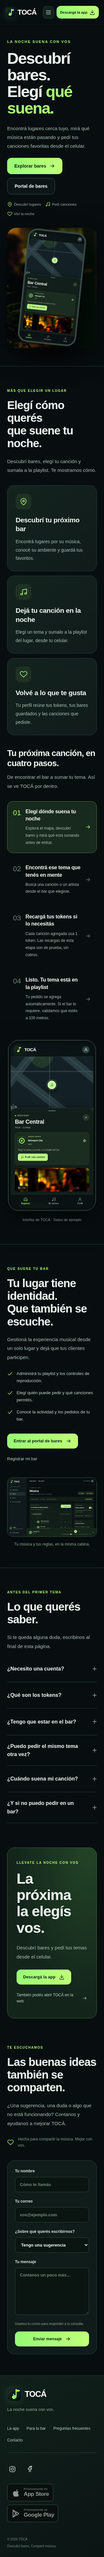
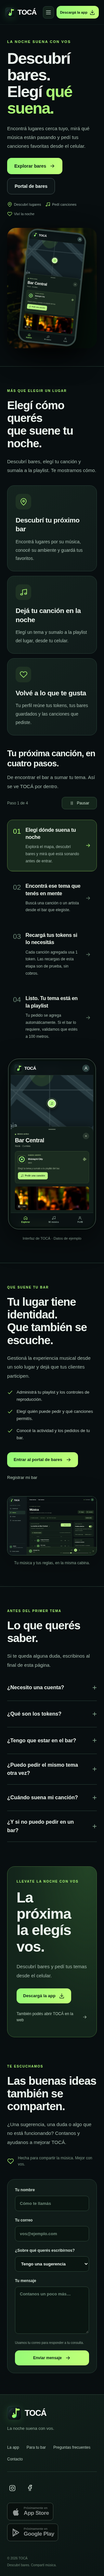
Auto advance homepage walkthrough every five seconds with pause controls

diff --git a/web/landing.js b/web/landing.js
@@ -2,6 +2,7 @@
 (() => {
  'use strict';
  const sections=['inicio','la-app','para-bares','preguntas','descargar','contacto'];
+ const stagePlayers=new WeakMap();let stopWalkthrough=()=>{};
  const safeUrl=value=>{try{const u=new URL(value);return u.protocol==='https:'&&!u.username&&!u.password?u.href:''}catch{return ''}};
  const settings=()=>window.TOCA_CONFIG?.marketing||{};
  const storeLinks=()=>({ios:storeUrl(settings().appStoreUrl,['apps.apple.com','itunes.apple.com']),android:storeUrl(settings().playStoreUrl,['play.google.com'])});
@@ -20,7 +21,7 @@
   ['Recargá tus tokens si lo necesitás','Cada canción agregada usa 1 token. Las recargas de esta etapa son de prueba, sin cobros.','tokens.png'],
   ['Listo. Tu tema está en la playlist','Tu pedido se agrega automáticamente. Si el bar lo requiere, validamos que estés a 100 metros.','success.png']
  ];
- function walkthrough(){return `<div class="landing-walkthrough"><div class="landing-section-heading"><h3>Tu próxima canción, en cuatro pasos.</h3><p>De encontrar el bar a sumar tu tema. Así se ve TOCÁ por dentro.</p></div><div class="landing-how-grid"><div class="landing-stages" role="tablist" aria-label="Cómo funciona TOCÁ" aria-orientation="vertical">${stages.map(([title,copy],i)=>`<button type="button" role="tab" id="landing-stage-${i}" aria-controls="landing-screen-${i}" aria-selected="${i===0}" tabindex="${i===0?'0':'-1'}" data-landing-stage="${i}"><span class="landing-stage-number">0${i+1}</span><span><strong>${title}</strong><small>${copy}</small></span>${iconSvg('arrow',18)}</button>`).join('')}</div><div class="landing-screen-area">${stages.map(([title,,file],i)=>`<figure id="landing-screen-${i}" role="tabpanel" aria-labelledby="landing-stage-${i}" ${i?'hidden':''}><div class="landing-screen-phone"><img src="/assets/landing/${file}" width="390" height="780" loading="lazy" alt="Pantalla de TOCÁ: ${esc(title)}"></div><figcaption>Interfaz de TOCÁ · Datos de ejemplo</figcaption></figure>`).join('')}</div></div></div>`;}
+ function walkthrough(){return `<div class="landing-walkthrough"><div class="landing-section-heading landing-walkthrough-heading"><div><h3>Tu próxima canción, en cuatro pasos.</h3><p>De encontrar el bar a sumar tu tema. Así se ve TOCÁ por dentro.</p></div><div class="landing-walkthrough-controls"><span data-stage-count>Paso 1 de 4</span><button type="button" data-stage-playback title="Avance automático: 5 segundos por paso" aria-label="Pausar el avance automático de los pasos">${svg('<path d="M9 5v14M15 5v14"/>',16)}Pausar</button></div></div><div class="landing-how-grid"><div class="landing-stages" role="tablist" aria-label="Cómo funciona TOCÁ" aria-orientation="vertical">${stages.map(([title,copy],i)=>`<button type="button" role="tab" id="landing-stage-${i}" aria-controls="landing-screen-${i}" aria-selected="${i===0}" tabindex="${i===0?'0':'-1'}" data-landing-stage="${i}"><span class="landing-stage-number">0${i+1}</span><span><strong>${title}</strong><small>${copy}</small></span>${iconSvg('arrow',18)}<span class="landing-stage-progress" aria-hidden="true"><i></i></span></button>`).join('')}</div><div class="landing-screen-area">${stages.map(([title,,file],i)=>`<figure id="landing-screen-${i}" role="tabpanel" aria-labelledby="landing-stage-${i}" ${i?'hidden':''}><div class="landing-screen-phone"><img src="/assets/landing/${file}" width="390" height="780" loading="lazy" alt="Pantalla de TOCÁ: ${esc(title)}"></div><figcaption>Interfaz de TOCÁ · Datos de ejemplo</figcaption></figure>`).join('')}</div></div></div>`;}
  const previousLanding=tocaLanding;
  tocaLanding=function(){
   previousLanding();const root=document.querySelector('.toca-landing');if(!root)return;
@@ -47,10 +48,45 @@
    <footer class="landing-footer"><div class="landing-footer-top"><div>${brand()}<p>La noche suena con vos.</p></div><nav aria-label="Enlaces del sitio">${anchor('la-app','La app')}${anchor('para-bares','Para tu bar')}${anchor('preguntas','Preguntas frecuentes')}${anchor('contacto','Contacto')}</nav></div><div class="landing-footer-bottom"><div class="landing-socials" aria-label="Redes sociales">${socials()}</div>${badges()}</div><div class="landing-footer-legal"><span>© ${new Date().getFullYear()} TOCÁ</span><span>Descubrí bares. Compartí música.</span></div></footer>`);
   const main=document.createElement('main');main.className='landing-main';root.querySelector('.toca-landing-header').after(main);root.querySelectorAll(':scope > section').forEach(section=>main.append(section));
   const footerLogo=root.querySelector('.landing-footer .toca-brand');footerLogo.href='#/?section=inicio';footerLogo.dataset.homeAnchor='inicio';
+  stopWalkthrough();stopWalkthrough=startWalkthrough(root.querySelector('.landing-walkthrough'));
   requestAnimationFrame(()=>scrollSection(route().params.get('section'),false));
  };
  function scrollSection(id,smooth=true){if(id==='como-funciona')id='la-app';if(!sections.includes(id))return;const target=document.getElementById(id);if(!target)return;target.scrollIntoView({behavior:smooth&&!matchMedia('(prefers-reduced-motion:reduce)').matches?'smooth':'instant',block:'start'});}
- function activateStage(root,index){root.querySelectorAll('[data-landing-stage]').forEach(button=>{const selected=Number(button.dataset.landingStage)===index;button.setAttribute('aria-selected',String(selected));button.tabIndex=selected?0:-1;});root.querySelectorAll('[role="tabpanel"]').forEach((panel,i)=>panel.hidden=i!==index);}
+ function activateStage(root,index,manual=true){root.querySelectorAll('[data-landing-stage]').forEach(button=>{const selected=Number(button.dataset.landingStage)===index;button.setAttribute('aria-selected',String(selected));button.tabIndex=selected?0:-1;});root.querySelectorAll('[role="tabpanel"]').forEach((panel,i)=>panel.hidden=i!==index);stagePlayers.get(root)?.select(index,manual);}
+ function startWalkthrough(root){
+  const grid=root.querySelector('.landing-how-grid'),toggle=root.querySelector('[data-stage-playback]'),counter=root.querySelector('[data-stage-count]');
+  const motion=matchMedia('(prefers-reduced-motion:reduce)'),duration=5000,seen=new Set();
+  let index=0,elapsed=0,last=null,frame=null,hovered=false,focused=false,paused=motion.matches,disposed=false;
+  const running=()=>!disposed&&root.isConnected&&seen.size>0&&!document.hidden&&!paused&&!hovered&&!focused;
+  function progress(){grid.style.setProperty('--stage-progress',String(Math.min(elapsed/duration,1)));}
+  function sync(){
+   if(frame!==null)cancelAnimationFrame(frame);frame=null;last=null;if(disposed)return;
+   toggle.innerHTML=svg(paused?'<path d="m9 5 11 7-11 7V5Z"/>':'<path d="M9 5v14M15 5v14"/>',16)+(paused?'Reanudar':'Pausar');
+   toggle.setAttribute('aria-label',paused?'Reanudar el avance automático de los pasos':'Pausar el avance automático de los pasos');
+   counter.textContent=`Paso ${index+1} de ${stages.length}`;progress();
+   if(running())frame=requestAnimationFrame(tick);
+  }
+  function tick(now){
+   frame=null;if(!running()){last=null;return;}
+   if(last!==null)elapsed+=now-last;last=now;
+   if(elapsed>=duration){activateStage(grid,(index+1)%stages.length,false);return;}
+   progress();frame=requestAnimationFrame(tick);
+  }
+  stagePlayers.set(grid,{select(next,manual){index=next;elapsed=0;if(manual)paused=true;sync();}});
+  const observer=new IntersectionObserver(entries=>{for(const entry of entries){if(entry.isIntersecting&&entry.intersectionRatio>=.25)seen.add(entry.target);else seen.delete(entry.target);}if(seen.size)root.querySelectorAll('img[loading="lazy"]').forEach(image=>image.loading='eager');sync();},{threshold:[0,.25],rootMargin:'-90px 0px -20px 0px'});
+  observer.observe(root.querySelector('.landing-stages'));observer.observe(root.querySelector('.landing-screen-area'));
+  const enter=event=>{if(event.pointerType==='mouse'){hovered=true;sync();}},leave=()=>{hovered=false;sync();};
+  const focus=()=>{focused=root.querySelector('.landing-stages').contains(document.activeElement);sync();};
+  const blur=event=>{focused=root.querySelector('.landing-stages').contains(event.relatedTarget);sync();};
+  const play=()=>{paused=!paused;sync();},visibility=()=>sync(),preference=event=>{if(event.matches)paused=true;sync();};
+  root.addEventListener('pointerenter',enter);root.addEventListener('pointerleave',leave);
+  root.addEventListener('focusin',focus);root.addEventListener('focusout',blur);toggle.addEventListener('click',play);
+  document.addEventListener('visibilitychange',visibility);motion.addEventListener('change',preference);sync();
+  return ()=>{disposed=true;if(frame!==null)cancelAnimationFrame(frame);observer.disconnect();stagePlayers.delete(grid);
+   root.removeEventListener('pointerenter',enter);root.removeEventListener('pointerleave',leave);root.removeEventListener('focusin',focus);root.removeEventListener('focusout',blur);toggle.removeEventListener('click',play);
+   document.removeEventListener('visibilitychange',visibility);motion.removeEventListener('change',preference);
+  };
+ }
  function closeMenu(){const header=document.querySelector('.toca-landing-header');header?.classList.remove('is-menu-open');const toggle=header?.querySelector('.landing-menu-toggle');if(toggle){toggle.setAttribute('aria-expanded','false');toggle.setAttribute('aria-label','Abrir menú');}}
  document.addEventListener('click',event=>{
   const menu=event.target.closest('.landing-menu-toggle');if(menu){const open=menu.getAttribute('aria-expanded')!=='true';menu.setAttribute('aria-expanded',String(open));menu.setAttribute('aria-label',open?'Cerrar menú':'Abrir menú');menu.closest('.toca-landing-header').classList.toggle('is-menu-open',open);}
@@ -74,6 +110,7 @@
  }
  const previousRender=render;
  render=async function(){
+  if(!['/','/home'].includes(route().path)){stopWalkthrough();stopWalkthrough=()=>{};}
   if(['/','/home'].includes(route().path)&&document.querySelector('.landing-expanded')){scrollSection(route().params.get('section')||'inicio',false);return;}
   if(route().path!=='/download')return previousRender();
   const links=storeLinks(),ua=navigator.userAgent,ios=/iPhone|iPad|iPod/i.test(ua)||/Mac/i.test(ua)&&navigator.maxTouchPoints>1;

diff --git a/web/landing.css b/web/landing.css
@@ -26,11 +26,20 @@
 .landing-benefits h3{font-size:21px;letter-spacing:-.4px;line-height:1.3;margin:0 0 13px}.landing-benefits p{font-size:14px}
 .landing-walkthrough{margin-top:62px}
 .landing-walkthrough>.landing-section-heading{margin-bottom:32px}
+.landing-walkthrough>.landing-walkthrough-heading{display:flex;align-items:center;justify-content:space-between;gap:24px;max-width:none}
+.landing-walkthrough-controls{display:flex;align-items:center;gap:14px;flex:none}
+.landing-walkthrough-controls>span{color:#8ca594;font-size:12px;white-space:nowrap;font-variant-numeric:tabular-nums}
+.landing-walkthrough-controls>button{display:inline-flex;align-items:center;justify-content:center;gap:7px;min-width:108px;min-height:38px;padding:9px 12px;border:1px solid #34503d;border-radius:10px;background:#14251b;color:#cfe3d1;font:inherit;font-size:12px;cursor:pointer}
+.landing-walkthrough-controls>button:hover{border-color:#6c994b;color:var(--lime)}
 .landing-walkthrough h3{font-size:30px;line-height:1.2;letter-spacing:-.8px;margin:0 0 13px}
 .landing-how-grid{display:grid;grid-template-columns:minmax(0,1fr) minmax(0,.9fr);gap:80px;align-items:center}
 .landing-stages{display:grid;gap:13px}
 .landing-stages>button{display:flex;text-align:left;align-items:center;gap:20px;width:100%;padding:24px 22px;border:1px solid transparent;border-radius:17px;color:#c1d0c5;background:transparent;font:inherit;cursor:pointer;transition:background .2s,border-color .2s}
 .landing-stages>button[aria-selected=true]{border-color:#547c3a;background:#182a1d}
+.landing-stages>button{position:relative;overflow:hidden}
+.landing-stage-progress{position:absolute;bottom:0;left:0;right:0;height:3px;background:#b4ff7915;opacity:0;pointer-events:none}
+.landing-stages>button[aria-selected=true] .landing-stage-progress{opacity:1}
+.landing-stage-progress>i{display:block;width:100%;height:100%;background:var(--lime);transform:scaleX(var(--stage-progress,0));transform-origin:left center}
 .landing-stages>button:hover{background:#14221d}.landing-stage-number{font-family:'Outfit',sans-serif;font-size:22px;color:#6a8675;align-self:flex-start;padding-top:2px}
 .landing-stages>button[aria-selected=true] .landing-stage-number{color:var(--lime)}
 .landing-stages>button>span:nth-child(2){flex:1;min-width:0}.landing-stages strong{display:block;font-size:18px;font-weight:750;line-height:1.4;letter-spacing:-.3px;color:#eef6ed}
@@ -76,4 +85,5 @@
 .landing-expanded h1:focus,.landing-download-page h1:focus{outline:none}
 @media(max-width:1000px){.landing-expanded .toca-landing-header nav{gap:16px}.landing-expanded .toca-hero-copy h1{font-size:56px}.landing-expanded .toca-landing-hero{gap:25px}.landing-how-grid{gap:35px}.landing-owners{gap:35px}.landing-contact{gap:38px}.landing-download{margin:20px 24px 45px;padding:45px}.landing-faq{gap:40px}.landing-benefits article{padding:25px 22px}.landing-footer-top{flex-wrap:wrap}}
 @media(max-width:760px){.landing-expanded .toca-landing-header{height:76px;padding:0 16px;gap:10px}.landing-expanded .toca-landing-header>.toca-brand{font-size:22px;padding:0;gap:8px}.landing-expanded .toca-landing-header .toca-brand img{width:30px;height:30px}.landing-expanded .toca-landing-header .toca-brand strong{font-size:22px}.landing-header-actions{gap:8px}.landing-menu-toggle{display:grid;place-items:center;flex:none;width:34px;height:38px;padding:0;border:1px solid #294138;border-radius:9px;background:#13221b;color:#d2e3d6;cursor:pointer}.landing-expanded .toca-landing-header .toca-btn{font-size:11px;padding:10px 11px;min-height:39px;gap:6px}.landing-expanded .toca-landing-header nav{display:none;position:absolute;top:calc(100% + 14px);right:0;width:min(250px,calc(100vw - 32px));padding:9px;border:1px solid #34503e;border-radius:14px;background:#101e18;box-shadow:0 16px 40px #0008;font-size:14px}.landing-expanded .toca-landing-header.is-menu-open nav{display:grid;gap:3px}.landing-expanded .toca-landing-header nav a{display:block;padding:12px 14px;border-radius:9px}.landing-expanded .toca-landing-header nav a:hover{background:#1c3021}.landing-walkthrough{margin-top:40px}.landing-walkthrough h3{font-size:26px}.landing-expanded .toca-landing-hero{padding:46px 22px 55px;min-height:0;grid-template-columns:minmax(0,1fr);gap:35px}.landing-expanded .toca-hero-copy h1{font-size:49px;letter-spacing:-2px}.landing-expanded .toca-hero-copy>p{font-size:15px}.landing-expanded .toca-trust{gap:13px;font-size:10px}.landing-section{padding:65px 22px;scroll-margin-top:96px}.landing-section h2{font-size:35px;letter-spacing:-1.1px}.landing-section-heading{margin-bottom:32px}.landing-benefits{grid-template-columns:minmax(0,1fr);gap:14px}.landing-benefits article{padding:25px}.landing-benefits article>span{margin-bottom:19px}.landing-how-grid,.landing-owners,.landing-contact,.landing-faq{grid-template-columns:minmax(0,1fr);gap:36px}.landing-stages>button{gap:14px;padding:20px 17px}.landing-stages strong{font-size:16px}.landing-stages small{font-size:12px}.landing-screen-area figure{width:270px}.landing-owners figure{margin-top:5px}.landing-download{grid-template-columns:1fr;margin:10px 22px 15px;padding:36px 28px;border-radius:23px;gap:28px}.landing-download h2{font-size:45px}.landing-download-art{display:none}.landing-contact{padding-top:65px;padding-bottom:65px}#landing-contact-form{padding:23px;gap:19px}.landing-form-row{grid-template-columns:minmax(0,1fr);gap:19px}.landing-form-end{flex-direction:column;align-items:stretch;gap:15px}.landing-form-end small{max-width:none}.landing-form-end .toca-btn{justify-content:center}.landing-contact-note{margin-top:25px}.landing-faq .landing-section-heading{margin:0}.landing-footer{padding:35px 22px 25px}.landing-footer-top{display:block;padding-bottom:28px}.landing-footer nav{gap:15px 23px;margin-top:22px}.landing-footer-bottom{align-items:flex-start;flex-direction:column;gap:25px}.landing-footer-bottom .landing-store-badges{justify-content:flex-start;gap:10px}.landing-store{min-width:142px;padding:8px 11px}.landing-store strong{font-size:17px}.landing-footer-legal{flex-direction:column;gap:5px}.landing-download-dialog{padding-left:22px;padding-right:22px}.landing-download-dialog .landing-store{min-width:130px}.landing-download-dialog .landing-store strong{font-size:16px}.landing-download-dialog .landing-store-badges{gap:8px}.landing-download-dialog .landing-store>svg{width:24px}}
+@media(max-width:760px){.landing-walkthrough>.landing-walkthrough-heading{align-items:flex-start;flex-direction:column;gap:18px}.landing-walkthrough-controls{width:100%;justify-content:space-between}}
 @media(prefers-reduced-motion:reduce){.landing-stages>button,.landing-faq summary>span{transition:none}}

diff --git a/web/sw.js b/web/sw.js
@@ -1,4 +1,4 @@
-const CACHE="toca-shell-c33be84b6ec8bf15";const SHELL=["/", "/index.html", "/manifest.webmanifest", "/assets/icon.svg", "/styles.css", "/toca.css?v=admin-width-1", "/toca-admin-clean.css?v=1735", "/toca-dashboard-controls.css?v=1737", "/toca-mibar-v174.css?v=174", "/toca-hours-v175.css?v=176", "/toca-v180.css?v=180", "/toca-map-credits-v181.css?v=181", "/toca-location-v184.css?v=184", "/toca-v184.css?v=184", "/toca-v185.css?v=185", "/toca-location-v1810.css?v=1810", "/toca-description-v1811.css?v=1811", "/toca-artwork-v1813.css?v=1813", "/toca-now-v1816.css?v=1816", "/toca-playlist-v1820.css?v=1820", "/toca-playlist-scroll-v1821.css?v=1821", "/toca-how-v1823.css?v=1823", "/toca-customer-v1826.css?v=1826", "/toca-presence-v1827.css?v=1827", "/toca-access-layout-v1829.css?v=1829", "/toca-cleanup-v1830.css?v=1830", "/toca-mi-bar-cards-v1839.css?v=1839", "/toca-spacing-v1840.css?v=1840", "/toca-profile-v1841.css?v=1841", "/toca-map-hover-v1845.css?v=1845", "/toca-google-v1847.css?v=1847", "/admin-profile.css?v=1", "/account.css?v=1", "/music-cabina.css?v=number-heading-1", "/venue-import.css?v=bio-hours-1", "/venue-onboarding.css?v=1", "/venue-profile.css?v=admin-width-1", "/venue-gallery.css?v=1", "/customer-wallet.css?v=brand-colors-3", "/bar-dashboard.css?v=1", "/map-place-panel.css?v=5", "/landing.css?v=combined-3", "/config.js?v=marketing-1", "/assets/qr.js", "/toca-hours-v175.js?v=176", "/request-sync.js?v=redirect-2", "/app.js?v=resume-after-topup-3", "/map-place-panel.js?v=5", "/toca-map-credits-v181.js?v=181", "/toca-ui.js?v=landing-3", "/bar-dashboard.js?v=1", "/venue-gallery.js?v=1", "/customer-wallet.js?v=resume-after-topup-2", "/toca-customer-v1826.js?v=account-layout-2", "/live-music.js?v=1816", "/venue-location.js?v=onboarding-1", "/toca-location-v1828.js?v=1828", "/toca-v17.js?v=venue-gallery-1", "/toca-v1738.js?v=1738", "/toca-v1739.js?v=1739", "/toca-artwork-v1813.js?v=1813", "/toca-now-v1816.js?v=1816", "/toca-playlist-v1820.js?v=1821", "/toca-presence-v1827.js?v=presence-recovery-1", "/toca-admin-access-v1829.js?v=distance-1", "/toca-cleanup-v1830.js?v=1830", "/toca-mi-bar-cards-v1839.js?v=1839", "/toca-profile-v1841.js?v=tokens-1", "/toca-google-v1847.js?v=1847b", "/account.js?v=2", "/map-loader.js?v=distance-map-1", "/landing.js?v=combined-3", "/runtime.js?v=3", "/admin-profile.js?v=1", "/bio-hours.js?v=1", "/venue-import.js?v=profile-sections-1", "/music-cabina.js?v=number-heading-1", "/music-cabina-drag.js?v=drag-2", "/music-edit-intent.js?v=1", "/music-playback.js?v=1", "/admin-music.js?v=playlist-edits-3", "/venue-onboarding.js?v=profile-sections-1", "/venue-profile.js?v=hours-2", "/assets/toca-home-map.svg", "/assets/venues/bar-1.webp", "/assets/venues/bar-2.webp", "/assets/venues/bar-3.webp", "/assets/venues/bar-4.webp", "/assets/venues/bar-5.webp", "/assets/venues/bar-6.webp", "/assets/landing/explore.png", "/assets/landing/search.png", "/assets/landing/tokens.png", "/assets/landing/success.png", "/assets/landing/admin-music.png"];
+const CACHE="toca-shell-a2eece8c72c16a1b";const SHELL=["/", "/index.html", "/manifest.webmanifest", "/assets/icon.svg", "/styles.css", "/toca.css?v=admin-width-1", "/toca-admin-clean.css?v=1735", "/toca-dashboard-controls.css?v=1737", "/toca-mibar-v174.css?v=174", "/toca-hours-v175.css?v=176", "/toca-v180.css?v=180", "/toca-map-credits-v181.css?v=181", "/toca-location-v184.css?v=184", "/toca-v184.css?v=184", "/toca-v185.css?v=185", "/toca-location-v1810.css?v=1810", "/toca-description-v1811.css?v=1811", "/toca-artwork-v1813.css?v=1813", "/toca-now-v1816.css?v=1816", "/toca-playlist-v1820.css?v=1820", "/toca-playlist-scroll-v1821.css?v=1821", "/toca-how-v1823.css?v=1823", "/toca-customer-v1826.css?v=1826", "/toca-presence-v1827.css?v=1827", "/toca-access-layout-v1829.css?v=1829", "/toca-cleanup-v1830.css?v=1830", "/toca-mi-bar-cards-v1839.css?v=1839", "/toca-spacing-v1840.css?v=1840", "/toca-profile-v1841.css?v=1841", "/toca-map-hover-v1845.css?v=1845", "/toca-google-v1847.css?v=1847", "/admin-profile.css?v=1", "/account.css?v=1", "/music-cabina.css?v=number-heading-1", "/venue-import.css?v=bio-hours-1", "/venue-onboarding.css?v=1", "/venue-profile.css?v=admin-width-1", "/venue-gallery.css?v=1", "/customer-wallet.css?v=brand-colors-3", "/bar-dashboard.css?v=1", "/map-place-panel.css?v=5", "/landing.css?v=steps-4", "/config.js?v=marketing-1", "/assets/qr.js", "/toca-hours-v175.js?v=176", "/request-sync.js?v=redirect-2", "/app.js?v=resume-after-topup-3", "/map-place-panel.js?v=5", "/toca-map-credits-v181.js?v=181", "/toca-ui.js?v=landing-3", "/bar-dashboard.js?v=1", "/venue-gallery.js?v=1", "/customer-wallet.js?v=resume-after-topup-2", "/toca-customer-v1826.js?v=account-layout-2", "/live-music.js?v=1816", "/venue-location.js?v=onboarding-1", "/toca-location-v1828.js?v=1828", "/toca-v17.js?v=venue-gallery-1", "/toca-v1738.js?v=1738", "/toca-v1739.js?v=1739", "/toca-artwork-v1813.js?v=1813", "/toca-now-v1816.js?v=1816", "/toca-playlist-v1820.js?v=1821", "/toca-presence-v1827.js?v=presence-recovery-1", "/toca-admin-access-v1829.js?v=distance-1", "/toca-cleanup-v1830.js?v=1830", "/toca-mi-bar-cards-v1839.js?v=1839", "/toca-profile-v1841.js?v=tokens-1", "/toca-google-v1847.js?v=1847b", "/account.js?v=2", "/map-loader.js?v=distance-map-1", "/landing.js?v=steps-4", "/runtime.js?v=3", "/admin-profile.js?v=1", "/bio-hours.js?v=1", "/venue-import.js?v=profile-sections-1", "/music-cabina.js?v=number-heading-1", "/music-cabina-drag.js?v=drag-2", "/music-edit-intent.js?v=1", "/music-playback.js?v=1", "/admin-music.js?v=playlist-edits-3", "/venue-onboarding.js?v=profile-sections-1", "/venue-profile.js?v=hours-2", "/assets/toca-home-map.svg", "/assets/venues/bar-1.webp", "/assets/venues/bar-2.webp", "/assets/venues/bar-3.webp", "/assets/venues/bar-4.webp", "/assets/venues/bar-5.webp", "/assets/venues/bar-6.webp", "/assets/landing/explore.png", "/assets/landing/search.png", "/assets/landing/tokens.png", "/assets/landing/success.png", "/assets/landing/admin-music.png"];
 self.addEventListener('install',e=>e.waitUntil(caches.open(CACHE).then(c=>c.addAll(SHELL)).then(()=>self.skipWaiting())));
 self.addEventListener('activate',e=>e.waitUntil(caches.keys().then(keys=>Promise.all(keys.filter(k=>k.startsWith('toca-shell-')&&k!==CACHE).map(k=>caches.delete(k)))).then(()=>self.clients.claim())));
 self.addEventListener('fetch',e=>{const u=new URL(e.request.url);if(e.request.method!=='GET'||u.origin!==location.origin||u.pathname.startsWith('/api/'))return;

diff --git a/web/index.html b/web/index.html
@@ -58,7 +58,7 @@
   <link rel="stylesheet" href="/customer-wallet.css?v=brand-colors-3" />
   <link rel="stylesheet" href="/bar-dashboard.css?v=1" />
   <link rel="stylesheet" href="/map-place-panel.css?v=5" />
-  <link rel="stylesheet" href="/landing.css?v=combined-3" />
+  <link rel="stylesheet" href="/landing.css?v=steps-4" />
 </head>
 <body>
   <div id="app"></div>
@@ -92,7 +92,7 @@
   <script src="/toca-google-v1847.js?v=1847b" defer></script>
   <script src="/account.js?v=2" defer></script>
   <script src="/map-loader.js?v=distance-map-1" defer></script>
-  <script src="/landing.js?v=combined-3" defer></script>
+  <script src="/landing.js?v=steps-4" defer></script>
   <script src="/runtime.js?v=3" defer></script>
   <script src="/admin-profile.js?v=1" defer></script>
   <script src="/bio-hours.js?v=1" defer></script>

diff --git a/scripts/test-landing-autoplay.py b/scripts/test-landing-autoplay.py
@@ -1,0 +1,80 @@
+"""Real five-second walkthrough timing, visibility, interaction and reduced motion."""
+import argparse
+import functools
+import threading
+from pathlib import Path
+from http.server import SimpleHTTPRequestHandler, ThreadingHTTPServer
+from playwright.sync_api import sync_playwright, expect
+
+parser=argparse.ArgumentParser()
+parser.add_argument('--mode',choices=['desktop','mobile'],required=True)
+mode=parser.parse_args().mode
+ROOT=Path(__file__).resolve().parents[1]
+class Quiet(SimpleHTTPRequestHandler):
+ def log_message(self,*args):pass
+server=ThreadingHTTPServer(('127.0.0.1',0),functools.partial(Quiet,directory=str(ROOT/'web')))
+threading.Thread(target=server.serve_forever,daemon=True).start()
+BASE=f'http://127.0.0.1:{server.server_port}'
+
+try:
+ with sync_playwright() as p:
+  browser=p.chromium.launch(executable_path='/usr/bin/chromium',args=['--no-sandbox'])
+  def setup(**options):
+   context=browser.new_context(service_workers='block',**options)
+   page=context.new_page();errors=[];page.on('pageerror',lambda error:errors.append(str(error)))
+   page.add_init_script("localStorage.setItem('amplify-mode','live')")
+   page.route('https://**/*',lambda route:route.abort())
+   page.route('http://localhost:8080/**',lambda route:route.fulfill(content_type='application/json',body='[]',headers={'Access-Control-Allow-Origin':'*'}))
+   page.goto(BASE+'/#/');expect(page.locator('[data-stage-count]')).to_have_text('Paso 1 de 4')
+   return context,page,errors
+  def active(page,index):return page.locator(f'[data-landing-stage="{index}"]')
+  def expect_step(page,index):
+   expect(active(page,index)).to_have_attribute('aria-selected','true',timeout=6500)
+   expect(page.locator(f'#landing-screen-{index}')).to_be_visible()
+   expect(page.locator('[data-stage-count]')).to_have_text(f'Paso {index+1} de 4')
+  def running(page):
+   page.wait_for_function("Number(document.querySelector('.landing-how-grid').style.getPropertyValue('--stage-progress'))>.01")
+  if mode=='desktop':
+   context,page,errors=setup(viewport=dict(width=1440,height=900))
+   page.wait_for_timeout(5300);expect_step(page,0)
+   area=page.locator('.landing-screen-area');area.scroll_into_view_if_needed();page.mouse.move(0,0);running(page)
+   page.wait_for_timeout(4500);expect_step(page,0)
+   for index in [1,2,3,0]:expect_step(page,index)
+   print('PASS real 5-second progression: offscreen pause, no early advance, all four screens and loop',flush=True)
+   area.hover();index=int(page.locator('[data-landing-stage][aria-selected=true]').get_attribute('data-landing-stage'))
+   page.wait_for_timeout(5300);expect_step(page,index)
+   toggle=page.locator('[data-stage-playback]');toggle.click();expect(toggle).to_have_text('Reanudar')
+   page.mouse.move(0,0);page.wait_for_timeout(5300);expect_step(page,index)
+   toggle.click();area.scroll_into_view_if_needed();page.mouse.move(0,0);expect_step(page,(index+1)%4)
+   active(page,3).click();expect(toggle).to_have_text('Reanudar');page.mouse.move(0,0)
+   page.wait_for_timeout(5300);expect_step(page,3)
+   print('PASS hover pause, explicit pause/resume and manual selection stays selected',flush=True)
+   toggle.click();area.scroll_into_view_if_needed();page.mouse.move(0,0);running(page)
+   # Dispatch the browser visibility event with a hidden-tab state, keeping real timers.
+   page.evaluate("Object.defineProperty(document,'hidden',{configurable:true,get:()=>true});document.dispatchEvent(new Event('visibilitychange'))")
+   page.wait_for_timeout(5300);expect_step(page,3)
+   page.evaluate("Object.defineProperty(document,'hidden',{configurable:true,get:()=>false});document.dispatchEvent(new Event('visibilitychange'))")
+   expect_step(page,0)
+   old=page.locator('.landing-how-grid').element_handle()
+   page.goto(BASE+'/#/download');expect(page.locator('.landing-download-page')).to_be_visible()
+   frozen=old.evaluate("node=>node.style.getPropertyValue('--stage-progress')")
+   page.wait_for_timeout(500)
+   assert old.evaluate("node=>node.style.getPropertyValue('--stage-progress')")==frozen
+   page.goto(BASE+'/#/');expect_step(page,0);assert not errors,errors
+   context.close();print('PASS hidden-tab pause/resume, navigation cleanup and a fresh walkthrough on return',flush=True)
+  else:
+   context,page,errors=setup(viewport=dict(width=390,height=900),is_mobile=True,has_touch=True)
+   page.locator('.landing-screen-area').scroll_into_view_if_needed();running(page);expect_step(page,1)
+   active(page,3).tap();expect(page.locator('[data-stage-playback]')).to_have_text('Reanudar')
+   page.locator('[data-stage-playback]').tap();expect_step(page,0)
+   assert not errors,errors;context.close()
+   print('PASS mobile auto advance, manual touch selection, resume and wrap without sticky hover',flush=True)
+   context,page,errors=setup(viewport=dict(width=1440,height=900),reduced_motion='reduce')
+   page.locator('.landing-screen-area').scroll_into_view_if_needed();page.mouse.move(0,0)
+   expect(page.locator('[data-stage-playback]')).to_have_text('Reanudar')
+   page.wait_for_timeout(5300);expect_step(page,0)
+   page.locator('[data-stage-playback]').click();page.locator('.landing-screen-area').scroll_into_view_if_needed();page.mouse.move(0,0);expect_step(page,1)
+   assert not errors,errors;context.close()
+   print('PASS reduced motion starts paused and only advances after explicit play',flush=True)
+  browser.close()
+finally:server.shutdown()

diff --git a/scripts/test-landing.py b/scripts/test-landing.py
@@ -55,6 +55,7 @@ try:
     tabs.nth(i).click();expect(tabs.nth(i)).to_have_attribute('aria-selected','true');expect(page.locator(f'#landing-screen-{i}')).to_be_visible()
     image=page.locator(f'#landing-screen-{i} img');page.wait_for_function('(src)=>Array.from(document.images).some(i=>i.src.endsWith(src)&&i.naturalWidth>0)',arg=image.get_attribute('src'))
    tabs.last.press('Home');expect(tabs.first).to_have_attribute('aria-selected','true')
+   expect(page.locator('[data-stage-playback]')).to_have_text('Reanudar')
    header_anchor('contacto');page.wait_for_timeout(450)
    form=page.locator('#landing-contact-form');form.locator('[name=name]').fill('Landing fixture');form.locator('[name=email]').fill('landing@example.test');form.locator('[name=message]').fill('Tengo una sugerencia para mejorar la aplicación.')
    header_anchor('la-app');page.go_back();expect(form.locator('[name=name]')).to_have_value('Landing fixture')
@@ -74,6 +75,7 @@ try:
     page.locator('#'+id).scroll_into_view_if_needed();page.wait_for_timeout(100)
    page.wait_for_function("Array.from(document.querySelectorAll('.landing-expanded img')).filter(i=>!i.closest('[hidden]')).every(i=>i.complete&&i.naturalWidth>0)")
    form.locator('.landing-form-status').evaluate('(node)=>node.hidden=true')
+   page.locator('[data-stage-playback]').click();page.mouse.move(0,0)
    page.evaluate('scrollTo(0,0)');page.wait_for_timeout(150)
    assert page.evaluate('document.documentElement.scrollWidth<=innerWidth'),width
    page.screenshot(path=str(OUT/f'inicio-{width}.png'),full_page=True)

diff --git a/docs/INICIO.md b/docs/INICIO.md
@@ -4,6 +4,8 @@ La página reúne la presentación, “La app” (beneficios y recorrido con cap
 
 Los enlaces de la cabecera y el pie llevan a secciones de la misma página mediante el router existente: `/#/?section=la-app`, `/#/?section=para-bares` y `/#/?section=contacto`. Los enlaces anteriores a `section=como-funciona` siguen llevando a “La app”. Funcionan al abrir un enlace directo y al usar atrás/adelante, y conservan el formulario mientras se navega entre secciones. La cabecera permanece visible; sus enlaces se agrupan a la derecha junto a “Descargá la app”. En celular se reúnen en un menú junto al mismo botón.
 
+El recorrido de cuatro pasos avanza automáticamente cada cinco segundos y vuelve al primero al terminar. Muestra el número de paso, una barra de progreso y un control para pausar/reanudar. Se pausa fuera del área visible, con la pestaña oculta, al pasar el mouse o al enfocar los pasos con el teclado. Una selección manual queda en pausa hasta pulsar “Reanudar”. Con movimiento reducido comienza pausado. Los observadores y la animación se eliminan al salir de inicio.
+
 ## Vista previa
 
 - [Inicio en escritorio](previews/inicio-1440.png)
@@ -71,6 +73,7 @@ Compose ejecuta las migraciones antes del API. Actualizar el navegador con `Cmd+
 Comprobaciones incluidas:
 
 - `scripts/test-landing.py`: escritorio y celulares de 390/320 px, anclas, historial, recorrido y teclado, imágenes cargadas, QR local, destinos iOS/Android y reintentos del formulario.
+- `scripts/test-landing-autoplay.py --mode desktop` y `--mode mobile`: duración real de cinco segundos, ciclo completo, pausas por visibilidad/interacción, controles, touch, movimiento reducido y limpieza al navegar.
 - `ContactInputTest.kt`: normalización, validación y campo trampa.
 - `scripts/integration/P1ServiceProbe.java`: persistencia, concurrencia, reintentos y notificaciones con transporte simulado, junto con las regresiones existentes.
 - `scripts/integration/http_contact_probe.py`: formulario real → API real → PostgreSQL de prueba, validación HTTP, idempotencia, límites y rechazo de cabeceras de proxy no confiables. Requiere las variables y protecciones de base de prueba de `http_auth_probe.py`; `TOCA_TEST_WEB_URL` habilita el envío desde Chromium.
